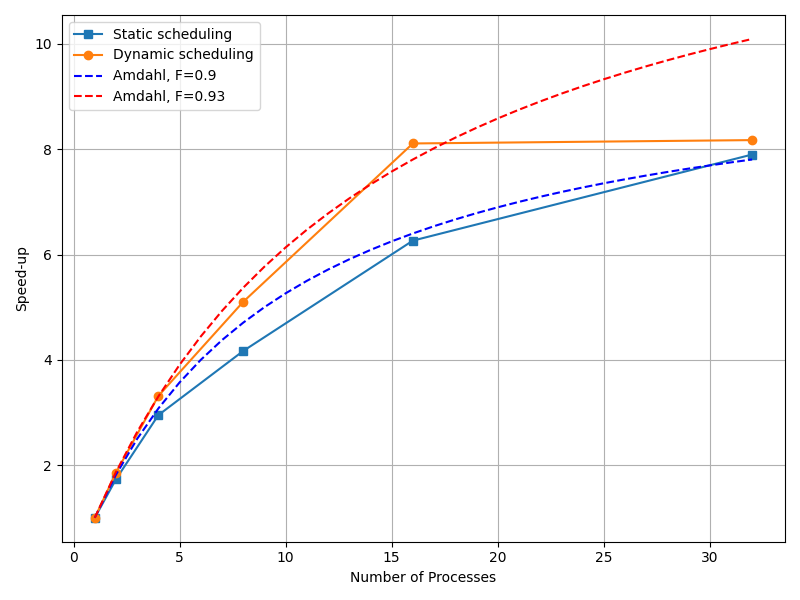
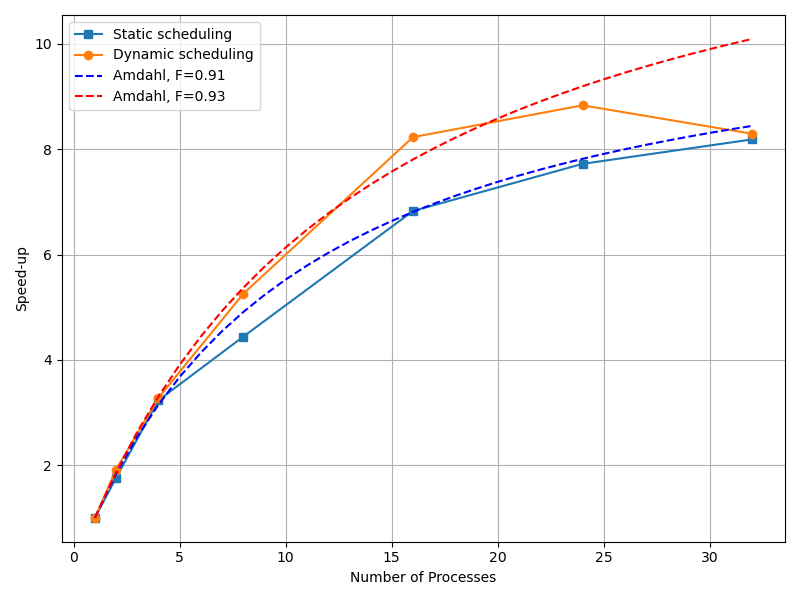
updated plots for task 5 and 6

diff --git a/1_5_plotting.py b/1_5_plotting.py
@@ -37,7 +37,7 @@ plt.plot(data['n_proc'], data['speedup'], marker='o', label='Observed speed-up')
 
 # Plot Amdahl's law curves for different parallel fractions.
 # Choose parallel fractions (p) e.g. 90%, 95% and 99%.
-parallel_fractions = [0.93]
+parallel_fractions = [0.91]
 # Create an array for number of processes.
 n_processes = np.arange(1, data['n_proc'].max()+1)
 for p in parallel_fractions:
@@ -50,5 +50,5 @@ plt.xticks(np.arange(0, data['n_proc'].max()+1, 5))
 plt.legend()
 plt.grid(True)
 plt.tight_layout()
-plt.savefig("speedup_plot.png", dpi=300)
+plt.savefig("speedup_plot_6.png", dpi=300)
 plt.show()

diff --git a/1_6_comparison_plot.py b/1_6_comparison_plot.py
@@ -75,7 +75,7 @@ max_n = max(max(n_proc_static), max(n_proc_dynamic))
 n_vals = np.arange(1, max_n+1)
 
 # Assumed parallel fractions (modify these as needed).
-p_static = 0.90  # e.g., 95% of the work is parallel for static scheduling.
+p_static = 0.91  # e.g., 95% of the work is parallel for static scheduling.
 p_dynamic = 0.93  # e.g., 85% of the work is parallel for dynamic scheduling.
 
 amdahl_static = [amdahl_speedup(n, p_static) for n in n_vals]

diff --git a/simulate_ex_6.py b/simulate_ex_6.py
@@ -75,7 +75,7 @@ if __name__ == '__main__':
     print(f"Processing {N} floorplans on {num_processes} processes (chunk size = {chunk_size})")
     
     with Pool(processes=num_processes) as pool:
-        results = pool.imap_unordered(process_floorplan, tasks, chunksize=1)
+        results = pool.map(process_floorplan, tasks, chunksize=1)
         results = list(results)
 
     all_u = np.array(results)
